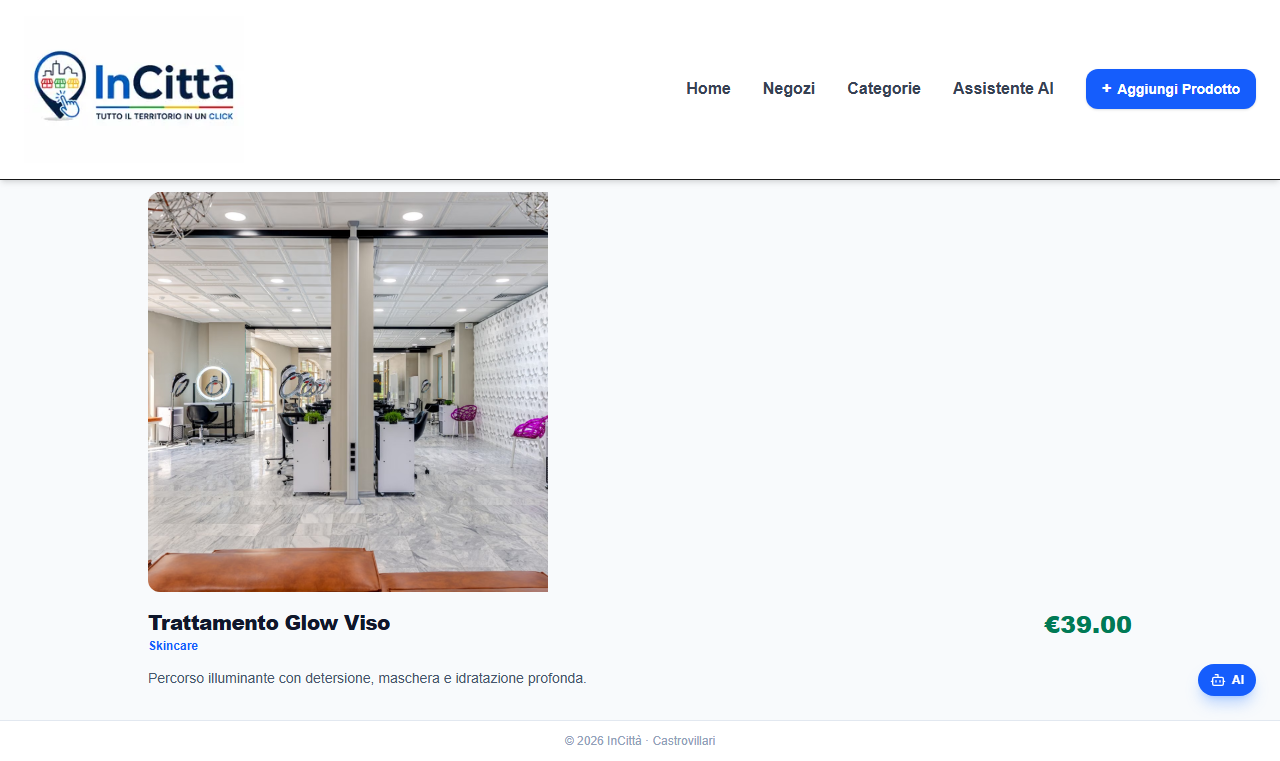
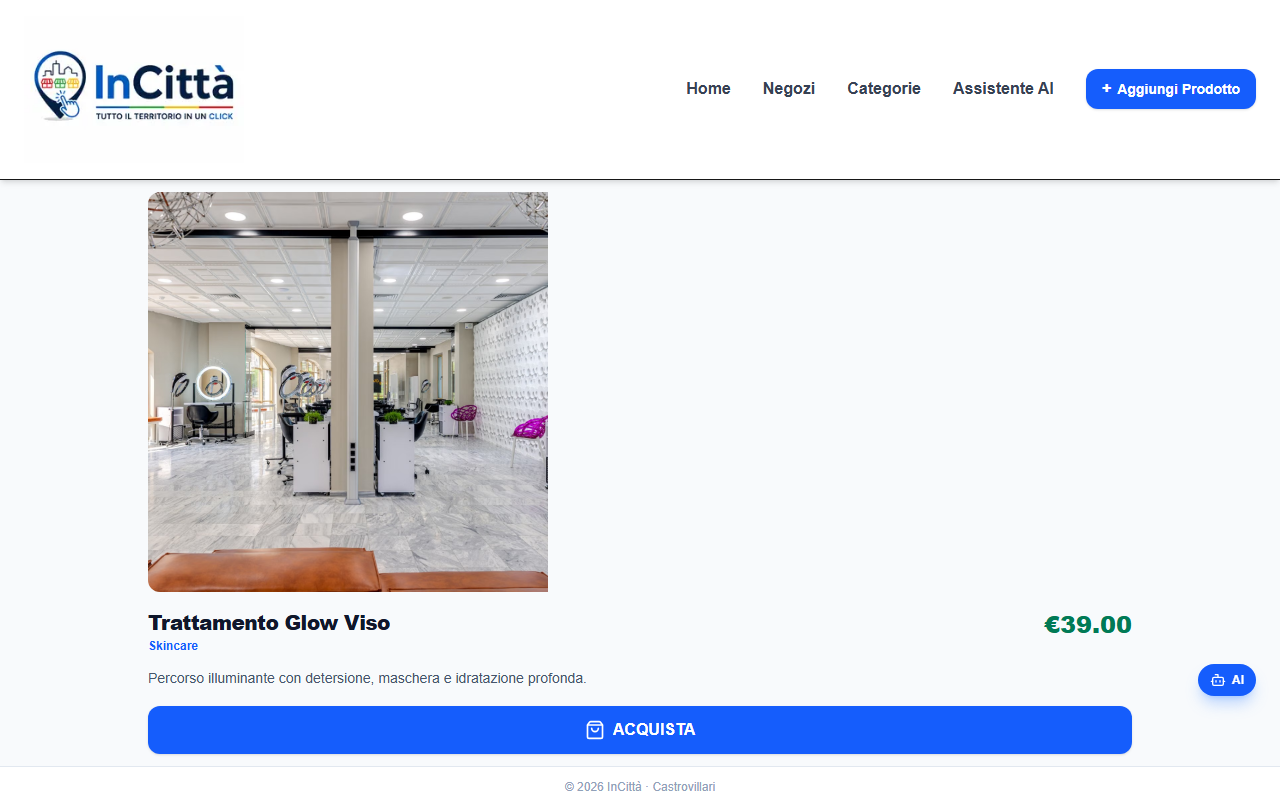
test: update Playwright tests to verify no orari on product page, ACQUISTA button visible/clickable/navigates

diff --git a/tests/acquista-flow.spec.ts b/tests/acquista-flow.spec.ts
@@ -44,14 +44,29 @@ test.describe("Acquista Flow E2E", () => {
     const title = await page.textContent("h1");
     expect(title).toContain("Trattamento Glow Viso");
 
-    const acquistaButton = page.locator("text=Acquista");
-    const isVisible = await acquistaButton.isVisible();
+    // Verify NO opening hours on product page
+    const orariText = await page.locator("text=Orari di apertura").count();
+    expect(orariText).toBe(0);
+    console.log("✓ No opening hours on product page.");
 
-    if (!isVisible) {
-      console.log("NOTE: Acquista button not visible - expected for demo products without real negozio.");
-    } else {
-      console.log("Acquista button IS visible.");
-    }
+    // Aperto ora / Chiuso should not appear
+    const apertoChiuso = await page.locator("text=Aperto ora, text=Chiuso").count();
+    // Just log, not a hard assert - text might not match exactly
+
+    // Verify ACQUISTA button is visible
+    const acquistaButton = page.locator("text=ACQUISTA").or(page.locator("text=Acquista").first());
+    await expect(acquistaButton.first()).toBeVisible();
+    console.log("✓ ACQUISTA button is visible.");
+
+    // Verify button is clickable
+    await expect(acquistaButton.first()).toBeEnabled();
+    console.log("✓ ACQUISTA button is clickable.");
+
+    // Verify click navigates to /prodotto/[id]/acquista
+    await acquistaButton.first().click();
+    await page.waitForURL(/\/prodotto\/prod-demo-beauty-1\/acquista/, { timeout: 15000 });
+    expect(page.url()).toContain("/acquista");
+    console.log("✓ Click navigates to /prodotto/[id]/acquista.");
 
     expect(jsErrors.length).toBe(0);
   });
@@ -125,6 +140,20 @@ test.describe("Acquista Flow E2E", () => {
 
       expect(jsErrors.length).toBe(0);
     }
+  });
+
+  test("Verify orari appear on negozio page but NOT on product page", async () => {
+    // Go to negozio page - opening hours SHOULD be visible
+    await page.goto("/negozio/demo-beauty-1", { timeout: 30000 });
+    const negozioOrari = await page.locator("text=Lun-Sab").count();
+    expect(negozioOrari).toBeGreaterThan(0);
+    console.log("✓ Opening hours ARE visible on negozio page.");
+
+    // Go to product page - opening hours should NOT be visible
+    await page.goto("/prodotto/prod-demo-beauty-1", { timeout: 30000 });
+    const prodottoOrari = await page.locator("text=Lun-Sab").count();
+    expect(prodottoOrari).toBe(0);
+    console.log("✓ No opening hours on product page.");
   });
 
   test("Verify no orari on acquista pages", async () => {
